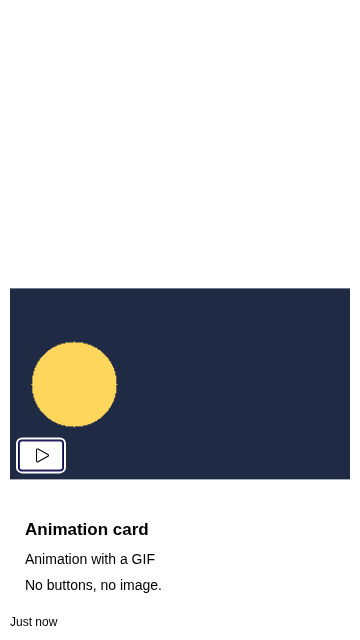
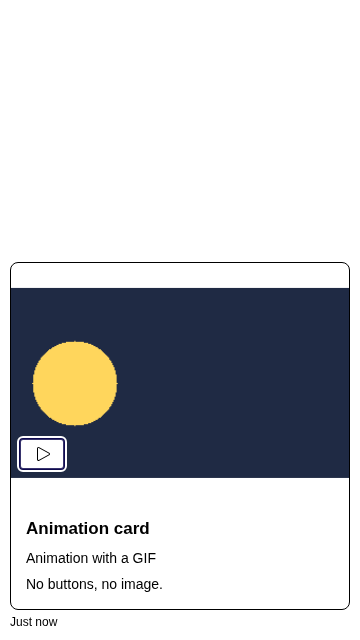
Re-capture the Fluent forced-colors GIF snapshot with the message border from #5907

diff --git a/__tests__/html2/richCard/animationCard.gif.forcedColors.html b/__tests__/html2/richCard/animationCard.gif.forcedColors.html
@@ -103,7 +103,7 @@
         expect(buttonElement.matches(':focus-visible')).toBe(true);
         await expect(testHelpers.getAccessibleName(buttonElement)).resolves.toBe('Play animation');
 
-        // THEN: The "Play animation" icon and the focus indicator should be visible in forced colors, over the first frame.
+        // THEN: The "Play animation" icon, the focus indicator, and the border of the message should be visible in forced colors, over the first frame.
         await host.snapshot('local');
       });
     </script>
